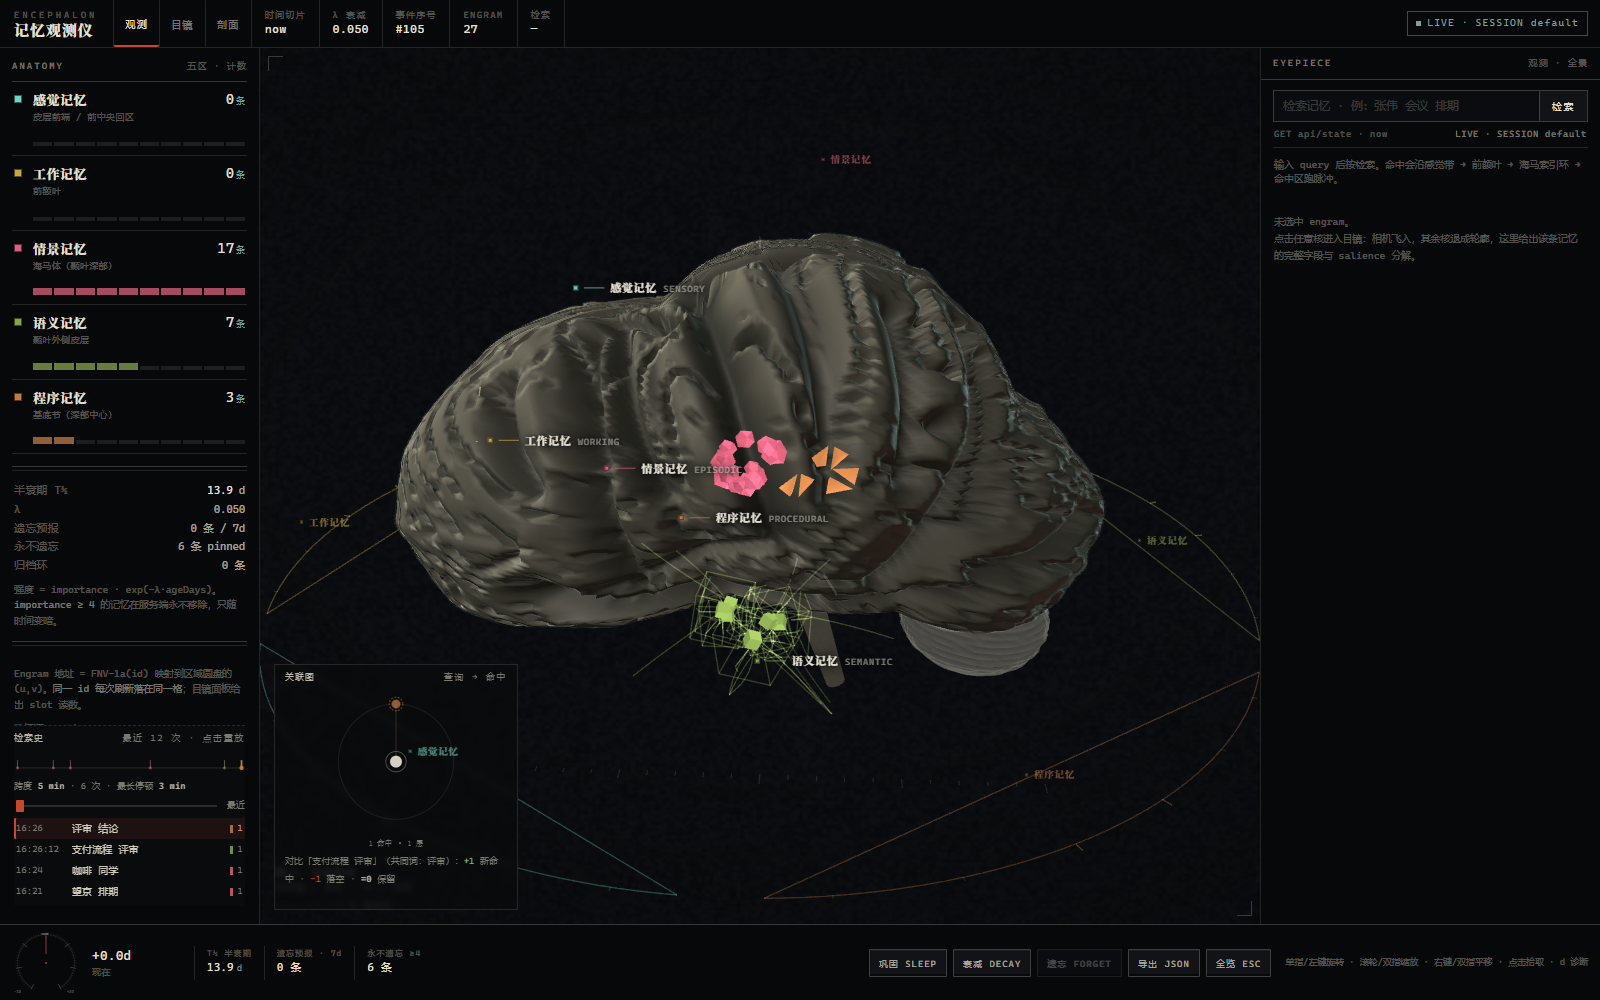
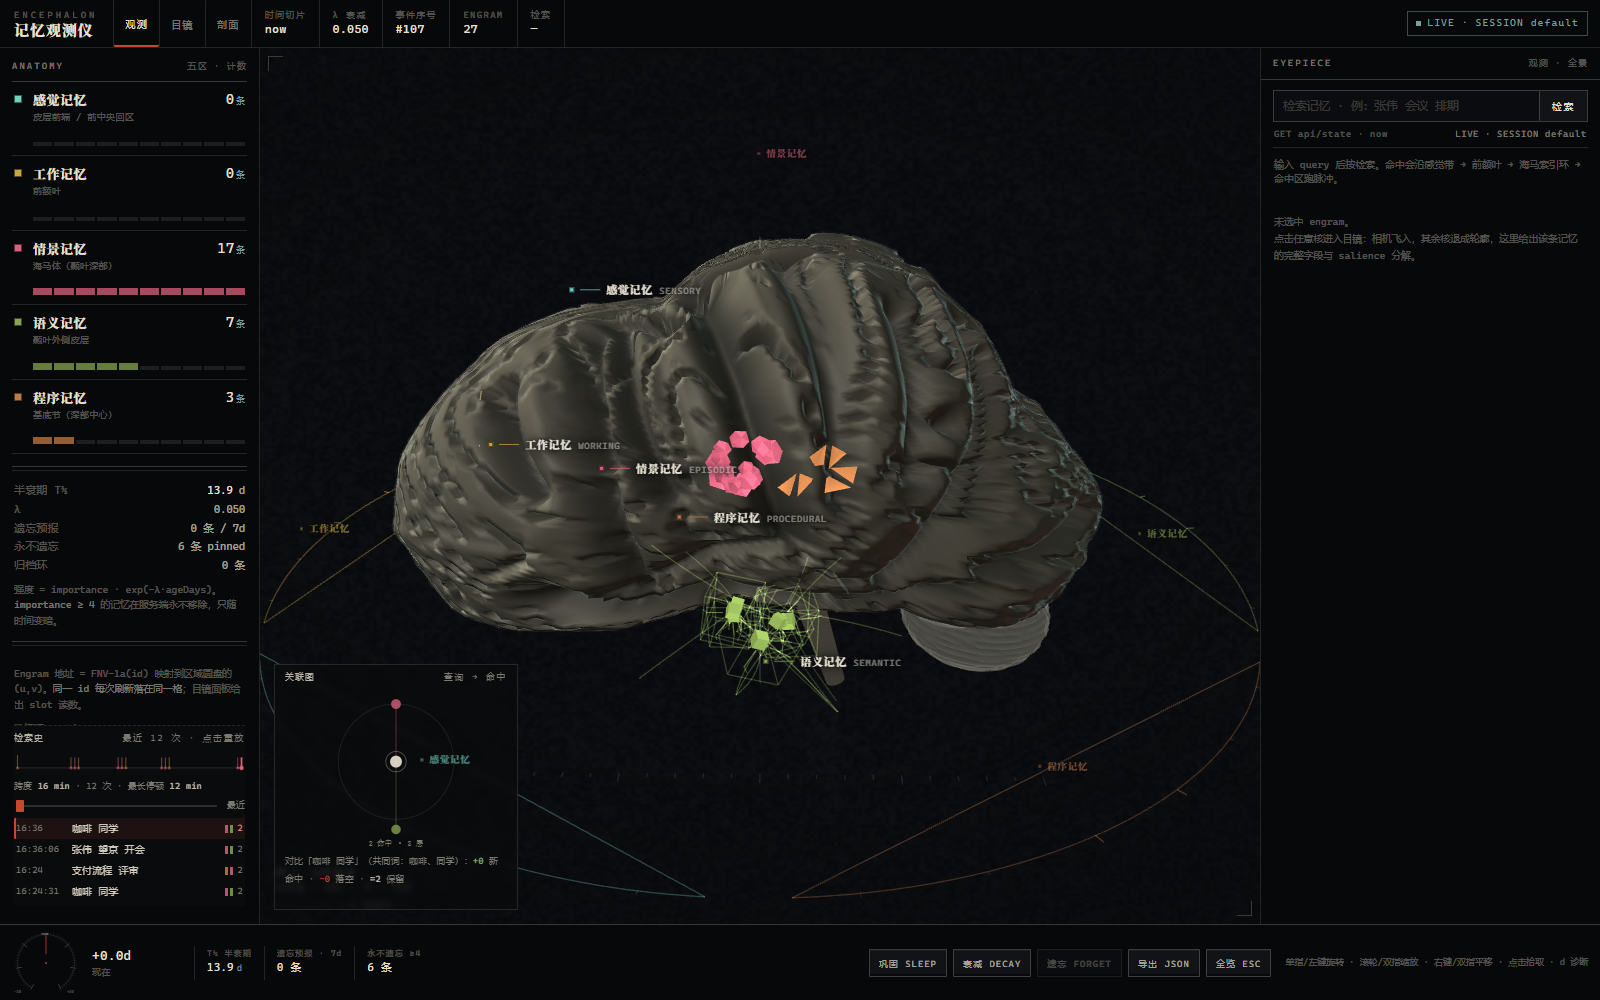
feat(3d): 刷新后从活动流重建检索史（跨刷新、不跨重启）

diff --git a/dist/deepseek-brain-3d.html b/dist/deepseek-brain-3d.html
@@ -2477,6 +2477,42 @@ globalThis.THREE=Object.freeze({ACESFilmicToneMapping:nt,AddEquation:M,AddOperat
     if (meta) meta.className = 'meta' + (kind ? ' ' + kind : '');
   }
 
+  /* 刷新页面后左栏不该空着：把服务端活动流里的 recall 记录重建成检索史。
+     活动流本身是进程内的（不是磁盘），所以能跨刷新、不跨重启——这是刻意取舍。 */
+  function loadHistoryFromActivity() {
+    return apiGet('api/activity?since=0&limit=200').then(function (res) {
+      var events = (res && res.events) || [];
+      var list = [];
+      events.forEach(function (ev) {
+        if (!ev || ev.kind !== 'recall' || !ev.query) return;
+        list.push({
+          at: ev.ts || Date.now(),
+          q: String(ev.query),
+          hits: (ev.hits || []).map(function (h) {
+            return { id: h.id, layer: h.layer, score: num(h.score, 0), title: h.title || '' };
+          }),
+        });
+      });
+      if (!list.length) return;
+      list.sort(function (a, b) { return b.at - a.at; });
+      /* 与已经收到的事件合并：同一秒同一句只算一条 */
+      var seen = {};
+      var merged = [];
+      APP.queries.concat(list).forEach(function (it) {
+        var k = Math.round(it.at / 1000) + '|' + it.q;
+        if (seen[k]) return;
+        seen[k] = 1;
+        merged.push(it);
+      });
+      merged.sort(function (a, b) { return b.at - a.at; });
+      APP.queries = merged.slice(0, HIST_MAX);
+      APP.graphIdx = 0;
+      var r = document.getElementById('histRange');
+      if (r) r.max = String(Math.max(0, APP.queries.length - 1));
+      if (typeof window.__uiRedraw === 'function') window.__uiRedraw();
+    }).catch(function () {});
+  }
+
   function setConn(live) {
     APP.live = !!live;
     var pill = $('connPill');
@@ -2484,7 +2520,7 @@ globalThis.THREE=Object.freeze({ACESFilmicToneMapping:nt,AddEquation:M,AddOperat
     pill.classList.toggle('warn', !live);
     $('connText').textContent = live ? ('LIVE · SESSION ' + (APP.sessionId || 'default')) : '离线演示';
     stageEl.classList.toggle('offline', !live);
-    if (live) openEventStream(); else closeEventStream();
+    if (live) { openEventStream(); loadHistoryFromActivity(); } else closeEventStream();
   }
 
   function atLabel() {

diff --git a/web/brain-3d.html b/web/brain-3d.html
@@ -2465,6 +2465,42 @@
     if (meta) meta.className = 'meta' + (kind ? ' ' + kind : '');
   }
 
+  /* 刷新页面后左栏不该空着：把服务端活动流里的 recall 记录重建成检索史。
+     活动流本身是进程内的（不是磁盘），所以能跨刷新、不跨重启——这是刻意取舍。 */
+  function loadHistoryFromActivity() {
+    return apiGet('api/activity?since=0&limit=200').then(function (res) {
+      var events = (res && res.events) || [];
+      var list = [];
+      events.forEach(function (ev) {
+        if (!ev || ev.kind !== 'recall' || !ev.query) return;
+        list.push({
+          at: ev.ts || Date.now(),
+          q: String(ev.query),
+          hits: (ev.hits || []).map(function (h) {
+            return { id: h.id, layer: h.layer, score: num(h.score, 0), title: h.title || '' };
+          }),
+        });
+      });
+      if (!list.length) return;
+      list.sort(function (a, b) { return b.at - a.at; });
+      /* 与已经收到的事件合并：同一秒同一句只算一条 */
+      var seen = {};
+      var merged = [];
+      APP.queries.concat(list).forEach(function (it) {
+        var k = Math.round(it.at / 1000) + '|' + it.q;
+        if (seen[k]) return;
+        seen[k] = 1;
+        merged.push(it);
+      });
+      merged.sort(function (a, b) { return b.at - a.at; });
+      APP.queries = merged.slice(0, HIST_MAX);
+      APP.graphIdx = 0;
+      var r = document.getElementById('histRange');
+      if (r) r.max = String(Math.max(0, APP.queries.length - 1));
+      if (typeof window.__uiRedraw === 'function') window.__uiRedraw();
+    }).catch(function () {});
+  }
+
   function setConn(live) {
     APP.live = !!live;
     var pill = $('connPill');
@@ -2472,7 +2508,7 @@
     pill.classList.toggle('warn', !live);
     $('connText').textContent = live ? ('LIVE · SESSION ' + (APP.sessionId || 'default')) : '离线演示';
     stageEl.classList.toggle('offline', !live);
-    if (live) openEventStream(); else closeEventStream();
+    if (live) { openEventStream(); loadHistoryFromActivity(); } else closeEventStream();
   }
 
   function atLabel() {

diff --git a/README.md b/README.md
@@ -339,6 +339,7 @@ node tools/build-3d.mjs      # 生成 dist/deepseek-brain-3d.html
 | 悬停关联图上的命中节点 | 图上一点 ↔ 脑里一枚：把鼠标移到关联图的节点上，标本里对应的那枚 engram 被顶到最亮（`hi = 1`）、其余压暗（`dim = 0.92`），浮卡底部同时给出 `层 · 标题 · score`；移开即恢复。浮卡本身 `pointer-events:none`，只有节点吃指针，所以不会挡住标本拖拽 |
 | 检索史下方的时间轴 | 一根 `range` 把最近 12 次检索当成可拖的时间：拖到两帧之间就按权重插值出一次「中间检索」（`score × (1−f)` 与 `score × f` 取并集），聚光被锁在 `hold` 状态不自行熄灭；松手吸附到最近一格并重放那次的纤维束与聚光。读数写作 `50% · 支付流程 评审` |
 | 检索史顶部的节奏条 | 相邻查询的间隔先 `log1p(Δt/1s)` 压缩再累加成横坐标：连着追查的几次会挤成一簇，隔几分钟才想起一次的会被拉开——横轴不是等距时间，而是「节奏」。每根刻度的高度随命中数、颜色取首个命中的层色，当前项加粗；下方读数给出 `跨度 / 次数 / 最长停顿` |
+| 刷新后检索史还在 | 连上服务端时 `loadHistoryFromActivity()` 拉 `api/activity?since=0&limit=200`，把其中 `kind === "recall"` 的事件重建成 `{at, q, hits}` 填回 `APP.queries`（同一秒同一句去重、上限 12 条）。**边界**：活动流是进程内日志，所以这件事跨刷新、不跨服务重启 |
 | 「睡眠 / 衰减 / 遗忘」压印按钮 | 真的 `POST /api/sleep`、`/api/decay`、`/api/forget`，迁移与归档在标本上留下路径与残影 |
 | 归档环里的往返 | 底板外环按五层切成五段扇区（每段用该层染料，扇区中点常显「感觉 / 工作 / 情景 / 语义 / 程序」小字——标签方向跟着相机转，但半径固定在标本外圈，所以任何方位角下五个都在、互不遮挡），`forget` / `decay` 让 engram 缩着飞向**自己那一段**；`restore` 沿同一路径长回来，`undo` 再反向飞出去——落点由 `archiveAngle(layer, slot.u)` 决定，不是随机角度 |
 

diff --git a/docs/DESIGN-v2.md b/docs/DESIGN-v2.md
@@ -170,6 +170,9 @@
 ## 6.11 检索节奏
 
 把 12 次检索按真实时间排开会遇到一个问题：一次会话里既有 2 秒的连击，也有 5 分钟的走神，线性时间轴会把连击压成一根线。这里把相邻间隔先取 `log1p(Δt)` 再累加成横坐标——**横轴不是时间，是节奏**：爆发段挤成一簇，长停顿被拉成一段空白。每根刻度的高度随命中数增长（12 px 上限），颜色取首个命中的层色，当前那一次加粗。读数固定给出 `跨度 · 次数 · 最长停顿`，让「今天查得很碎」这件事第一次能被数出来。
+## 6.12 检索史的来路
+
+检索史不落盘，但也不随刷新消失：页面连上服务端时向 `/api/activity?since=0&limit=200` 要一次活动流，把 `kind === "recall"` 的事件按 `{at: ts, q: query, hits}` 重建成列表，与已收到的事件按「秒 + 查询串」去重合并，取最近 12 条。服务端的活动流本身是进程内环形日志（`ActivityLog`，默认 240 条），所以这条恢复能力**跨刷新、不跨重启**——这是刻意的：记忆本体落盘，认知活动不落盘。
 ## 7. 验收清单（自我评审用）
 
 - [ ] 时间转盘拖动后，粒子大小/亮度与「遗忘预报」同步变化，且数值与服务端 `?at=` 一致
